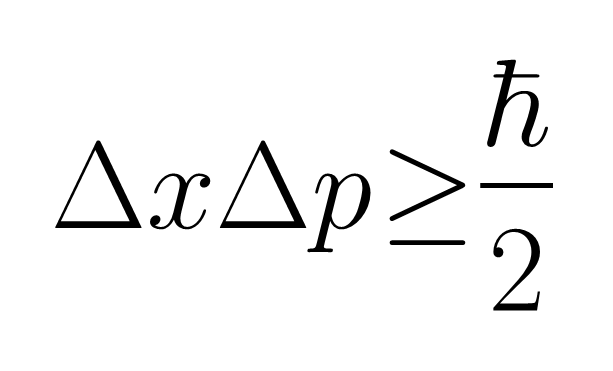
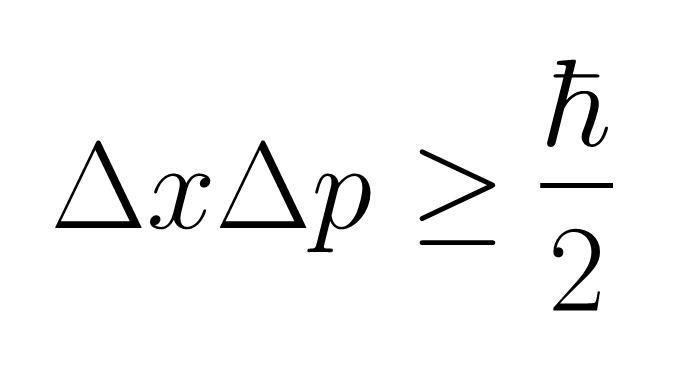
Improved operator parsing

diff --git a/MathematicsTypesetting.LaTeX/LaTeXParser.cs b/MathematicsTypesetting.LaTeX/LaTeXParser.cs
@@ -398,6 +398,32 @@ namespace MathematicsTypesetting.LaTeX
 
                 marker.Position += 1;
             }
+
+            var operatorCommands = new string[] { "times", "cdot", "leq", "geq", "propto" };
+
+            var operators = new string[] { "×", "·", "≤", "≥", "∝" };
+
+            for (var j = 0; j < operatorCommands.Length; j++)
+            {
+                var command = "\\" + operatorCommands[j];
+                var letter = operators[j];
+
+                if (marker.Position <= latex.Length - command.Length)
+                {
+                    if (latex.Substring(marker.Position, command.Length) == command)
+                    {
+                        var o = new BinomialOperator();
+
+                        o.Content = letter;
+
+                        container.Add(o);
+
+                        marker.Position += command.Length;
+
+                        break;
+                    }
+                }
+            }
         }
 
         public void GetWhitespace(string latex, IList<Element> container, Marker marker)
@@ -441,11 +467,11 @@ namespace MathematicsTypesetting.LaTeX
 
         public void GetGreekLetter(string latex, IList<Element> container, Marker marker)
         {
-            var greekLetterCommands = new string[] { "alpha", "beta", "gamma", "delta", "epsilon", "zeta", "eta", "theta", "iota", "kappa", "lambda", "mu", "nu", "xi", "omicron", "pi", "rho", "sigma", "tau", "upsilon", "phi", "chi", "psi", "omega", "Alpha", "Beta", "Gamma", "Delta", "Epsilon", "Zeta", "Eta", "Theta", "Iota", "Kappa", "Lambda", "Mu", "Nu", "Xi", "Omicron", "Pi", "Rho", "Sigma", "Tau", "Upsilon", "Phi", "Chi", "Psi", "Omega", "prime", "hbar", "partial", "nabla", "times", "cdot", "leq", "geq", "propto" };
+            var greekLetterCommands = new string[] { "alpha", "beta", "gamma", "delta", "epsilon", "zeta", "eta", "theta", "iota", "kappa", "lambda", "mu", "nu", "xi", "omicron", "pi", "rho", "sigma", "tau", "upsilon", "phi", "chi", "psi", "omega", "Alpha", "Beta", "Gamma", "Delta", "Epsilon", "Zeta", "Eta", "Theta", "Iota", "Kappa", "Lambda", "Mu", "Nu", "Xi", "Omicron", "Pi", "Rho", "Sigma", "Tau", "Upsilon", "Phi", "Chi", "Psi", "Omega", "prime", "hbar", "partial", "nabla" };
 
-            var greekLetters = new string[] { "α", "β", "γ", "δ", "ε", "ζ", "η", "θ", "ι", "κ", "λ", "μ", "ν", "ξ", "ο", "π", "ρ", "σ", "τ", "υ", "φ", "χ", "ψ", "ω", "Α", "Β", "Γ", "Δ", "Ε", "Ζ", "Η", "Θ", "Ι", "Κ", "Λ", "Μ", "Ν", "Ξ", "Ο", "Π", "Ρ", "Σ", "Τ", "Υ", "Φ", "Χ", "Ψ", "Ω", "′", "ħ", "∂", "∇", "×", "·", "≤", "≥", "∝" };
+            var greekLetters = new string[] { "α", "β", "γ", "δ", "ε", "ζ", "η", "θ", "ι", "κ", "λ", "μ", "ν", "ξ", "ο", "π", "ρ", "σ", "τ", "υ", "φ", "χ", "ψ", "ω", "Α", "Β", "Γ", "Δ", "Ε", "Ζ", "Η", "Θ", "Ι", "Κ", "Λ", "Μ", "Ν", "Ξ", "Ο", "Π", "Ρ", "Σ", "Τ", "Υ", "Φ", "Χ", "Ψ", "Ω", "′", "ħ", "∂", "∇" };
 
-            var uppercaseGreekLetters = new string[] { "Α", "Β", "Γ", "Δ", "Ε", "Ζ", "Η", "Θ", "Ι", "Κ", "Λ", "Μ", "Ν", "Ξ", "Ο", "Π", "Ρ", "Σ", "Τ", "Υ", "Φ", "Χ", "Ψ", "Ω", "∇", "×", "·", "≤", "≥", "∝" };
+            var uppercaseGreekLetters = new string[] { "Α", "Β", "Γ", "Δ", "Ε", "Ζ", "Η", "Θ", "Ι", "Κ", "Λ", "Μ", "Ν", "Ξ", "Ο", "Π", "Ρ", "Σ", "Τ", "Υ", "Φ", "Χ", "Ψ", "Ω", "′", "∇" };
 
             for (var j = 0; j < greekLetterCommands.Length; j++)
             {
